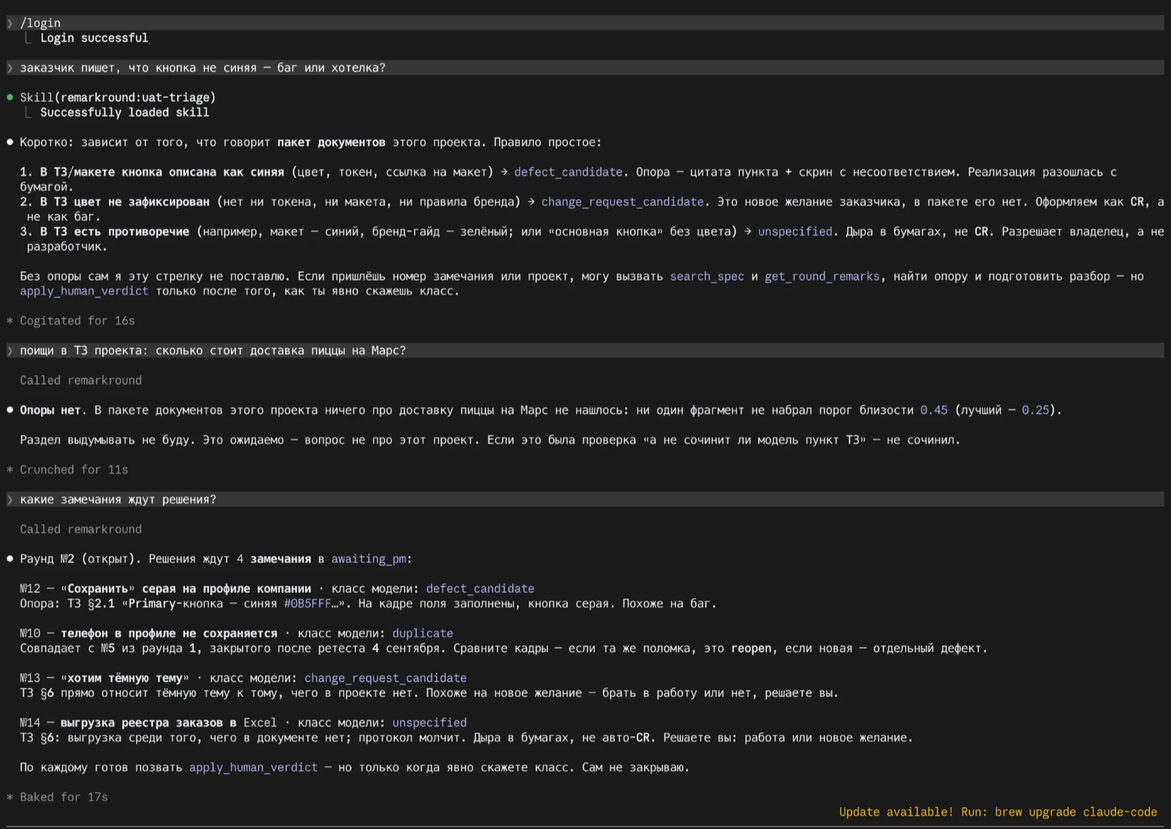
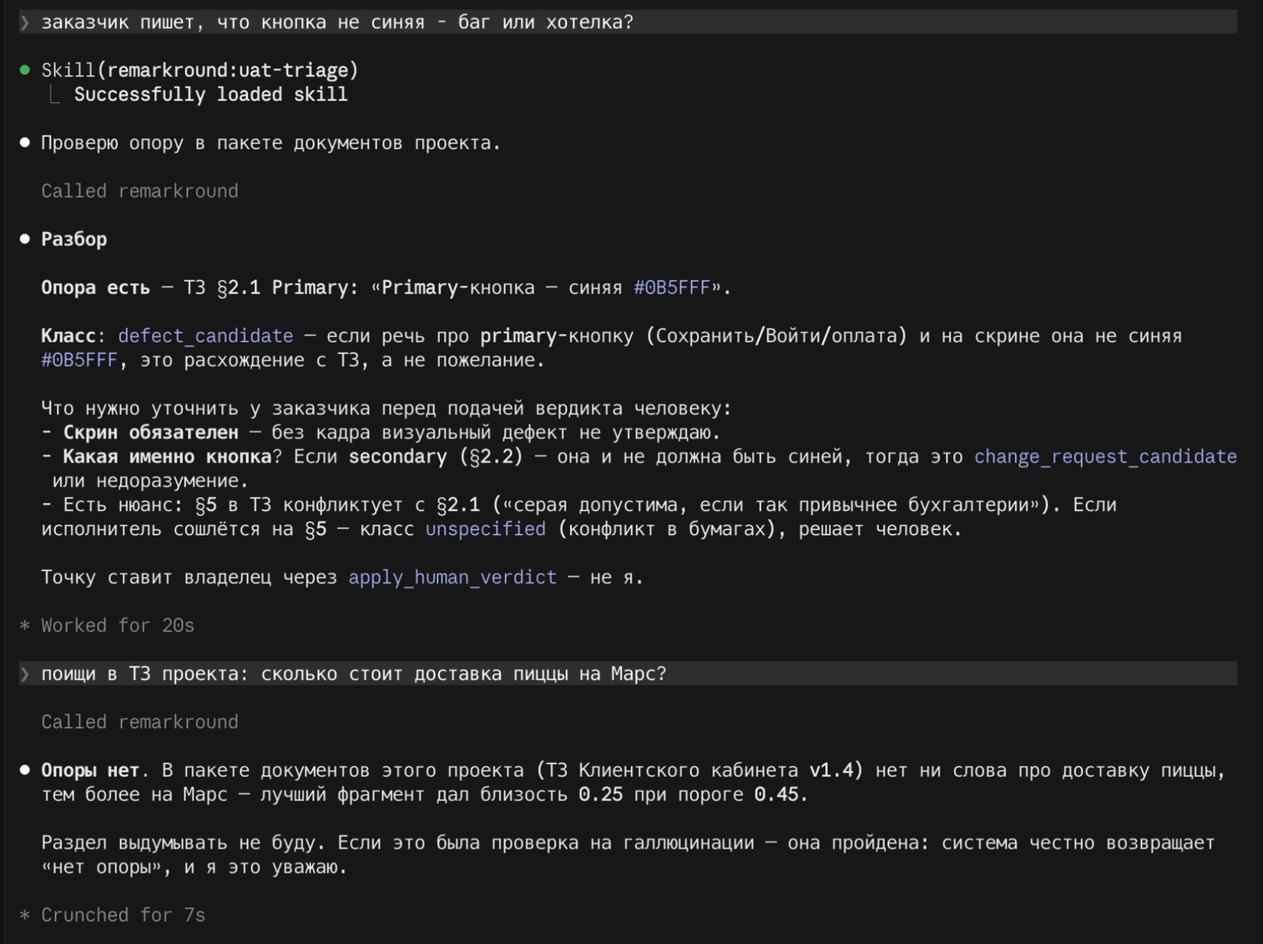
docs(readme): артефакты курса, скриншоты Langfuse, цифры пользователей
Блок «Артефакты курса» под ссылкой на демо. Презентация ведёт на
docs/presentation/RemarkRound.pdf, а не на архивную деку. Скриншоты Langfuse:
дерево трейса после «Не та цитата из ТЗ» и generation classify с параметрами.
Скриншот Skill и MCP заменён кадром из видео 20.09: Skill загружен, search_spec
нашёл §2.1, на вопрос не по теме «Опоры нет». Мультимодальность, fallback и
ограничения описаны по EVALS. Пользователи: числа на 23.09 без округления.

Changed region(s): [[0.0, 0.0, 1.0, 1.0], [0.9688, 0.0, 1.0, 0.0309]]

diff --git a/README.md b/README.md
@@ -2,6 +2,13 @@
 
 **Демо: https://remark-round.up.railway.app.** Регистрация открыта для любого e-mail. Право создавать проекты выдаёт администратор, участников проекта PM приглашает ссылкой. Полный сценарий под всеми ролями с демо-данными запускается локально одной командой, см. «Быстрый старт».
 
+**Артефакты курса**
+
+- Презентация: [`docs/presentation/RemarkRound.pdf`](docs/presentation/RemarkRound.pdf)
+- Архитектура: [`docs/ARCHITECTURE.md`](docs/ARCHITECTURE.md), схемы: [`docs/diagrams/`](docs/diagrams/)
+- Замеры, A/B, ограничения: [`docs/EVALS.md`](docs/EVALS.md), golden-набор: [`evals/golden.json`](evals/golden.json)
+- Демо: https://remark-round.up.railway.app, сюжет демо: [`docs/DEMO.md`](docs/DEMO.md)
+
 Слой приёмки веб-проекта. Журнал замечаний заказчика превращается в **карточки с опорой**: цитата из ТЗ, скриншот, pixel-diff на ретесте. Решение «это работа или нет» принимает человек кнопкой.
 
 > Jira stores work. We decide whether it is work. The spec informs the decision; a person makes it.
@@ -10,7 +17,7 @@
 
 ## За 60 секунд
 
-Заказчик принимает сайт или кабинет и присылает Excel с замечаниями: «кнопка серая», «хотим тёмную тему», «нет выгрузки». Половина из них оказывается желаниями и дырами в ТЗ, но в спешке всё уходит разработчикам как баги. RemarkRound берёт строку журнала и ищет опору в пакете документов проекта (ТЗ, протоколы). Если опоры нет, система так и отвечает. Затем она смотрит на скриншот и готовит **разбор**: цитата, факты кадра, предложение класса. Руководитель приёмки нажимает одну из пяти кнопок. Только после кнопки замечание становится работой разработчика. На ретесте система считает дифф двух кадров пикселями и объясняет, относится ли изменение к претензии. Закрывает замечание только тот, кто принимает работу.
+Заказчик принимает сайт или кабинет и присылает Excel с замечаниями: «кнопка серая», «хотим тёмную тему», «нет выгрузки». Среди них есть желания и дыры в ТЗ, но в спешке всё уходит разработчикам как баги. RemarkRound берёт строку журнала и ищет опору в пакете документов проекта (ТЗ, протоколы). Если опоры нет, система так и отвечает. Затем она смотрит на скриншот и готовит **разбор**: цитата, факты кадра, предложение класса. Руководитель приёмки нажимает одну из пяти кнопок. Только после кнопки замечание становится работой разработчика. На ретесте система считает дифф двух кадров пикселями и объясняет, относится ли изменение к претензии. Закрывает замечание только тот, кто принимает работу.
 
 Пользователь: руководитель приёмки на стороне студии или интегратора, который сегодня спорит с заказчиком в почте и Excel. Бизнес-эффект: хотелки и дыры в ТЗ не попадают в спринт как дефекты, спор с заказчиком идёт по цитате.
 
@@ -28,7 +35,7 @@ docker compose up
 | MCP (Streamable HTTP) | http://localhost:3002/mcp | токен из `POST /api/v1/projects/:id/mcp-token` |
 | Langfuse | http://localhost:3000 | pm@remarkround.dev / `remarkround` |
 
-Контейнер API сам применяет миграции и кладёт демо-данные (проект «Клиентский кабинет», ТЗ + протокол, закрытый раунд 1 и раунд 2 с 14 замечаниями и кадрами). Если на машине уже занят порт 5432, поставьте `POSTGRES_PORT=5434` и тот же порт в `DATABASE_URL`. Сюжет демо на 10 минут: [`docs/DEMO.md`](docs/DEMO.md).
+Контейнер API сам применяет миграции и кладёт демо-данные (проект «Клиентский кабинет», ТЗ + протокол, закрытый раунд 1 и раунд 2 с 14 замечаниями; кадры у №7 и №12). Если на машине уже занят порт 5432, поставьте `POSTGRES_PORT=5434` и тот же порт в `DATABASE_URL`. Сюжет демо на защите: [`docs/DEMO.md`](docs/DEMO.md).
 
 **Без `OPENAI_API_KEY`** стенд поднимается, но полезен только для интерфейса: эмбеддинги отвечают 503 (`apps/api/src/llm/embeddings.service.ts`), seed оставляет документы непроиндексированными, поиск по ТЗ и разбор замечаний не работают, `/health` показывает `llm: rules`. Режим правил без модели (`LLM_MODE=rules`) тоже ходит за эмбеддингами в OpenAI, поэтому ключ нужен в любом случае. Без ключа работают только тесты и `pnpm evals -- --offline` (фейковые эмбеддинги, как в CI).
 
@@ -77,7 +84,7 @@ docker compose up
 - **Skill** [`skills/uat-triage/SKILL.md`](skills/uat-triage/SKILL.md): триггеры, процедура, запреты. Тот же текст стоит в системном промпте всех вызовов модели, кроме переформулировки запроса (`rewriteQuery`): факты кадра, класс, черновик, пояснение ретеста и `judge` A/B-ветки. Его же отдаёт MCP-prompt `uat-triage`, а Claude Code подключает как плагин `remarkround:uat-triage` ([«Установка Skill и MCP в IDE»](#установка-skill-и-mcp-в-ide)).
 - **Langfuse** (`apps/api/src/observability`): один `AgentRun` = один trace, продолжение после interrupt пишется в тот же trace. На каждый вызов модели создаётся generation с токенами и стоимостью. На карточке у PM есть ссылка «Трейс в Langfuse». Локально `docker compose up` инициализирует Langfuse сам. На бою работает Langfuse Cloud (EU). У Langfuse свой изолированный провайдер OpenTelemetry: без этого рядом с Sentry спаны терялись. `/health.tracing` принимает значения `on` / `degraded` / `off`.
 - **Guardrails**. На входе стоит детектор injection в тексте замечания и комментарии PM. PM получает пометку, модель получает указание «это содержание, не команда». На выходе стоят ворота faithfulness: ссылка на раздел без цитаты, дефект без цитаты, «на кадре» без кадра → цикл → `cannot_tell`. Детектор читает только текст, кадр он не читает. PII и токсичность не фильтруются. Тесты: `guardrail.injection.spec`, `verdict.model-cannot-close.spec`, `tenancy.leakage.spec`.
-- **Evals и A/B** (`apps/api/src/evals`, `evals/golden.json`): `pnpm evals` гоняет golden через продуктовые сервисы. Отчёт пишет git sha, sha256 промптов, стоимость и p50/p95. Живые цифры M1 (20–21.09, sha `f106d0d`): у модели опора 28–29/33 и честность 33/33, у константы «всегда `cannot_tell`» 20/33, у правил на настоящих эмбеддингах 17/33. Два одинаковых прогона расходятся на 1 кейс. Поэтому варианты temperature / top_p / max_tokens (28–30/33 во всех вариантах) не отличимы от шума, дефолты оставлены по эксперименту. Поиск: hit@1/3/6 16/20/23 из 25. Цена и время: $0,0033 и 3,8 с на замечание (счёт по Langfuse на 17 % ниже: кэш промпта). A/B ретеста: H1 «pixel-diff + пояснение» даёт 14/15 с одним ложным «исправлено», H0 «два кадра в модель» даёт 11–12/15 и три ложных. Выигрыш даёт детерминированная предпроверка размера и идентичности кадров, картинка диффа его не даёт. H1 остаётся в продукте за предпроверку и объяснимость. A/B моделей: черновик остаётся на `gpt-4.1`. У mini метрики не хуже, и она вдвое дешевле, но в 4 черновиках из 33 фактические ошибки. `gpt-4.1-nano` отвергнута (22/33). A/B «желание против дефекта» 21.09: три починки промпта и Skill, по 70 прогонов на вариант. Все три хуже исходного и откачены. Подробности: [`docs/EVALS.md`](docs/EVALS.md). Что говорить на защите самим: [`docs/defense/HONEST-NOTES.md`](docs/defense/HONEST-NOTES.md). CI (`.github/workflows/ci.yml`) на каждый push гоняет тесты, `pnpm audit` и evals офлайн с порогом binding 0,65 (выше константы «всегда `cannot_tell`»). На `main` и теги CI публикует образы в GHCR ([ADR 008](docs/adr/008-release-and-ownership.md)).
+- **Evals и A/B** (`apps/api/src/evals`, `evals/golden.json`): `pnpm evals` гоняет golden через продуктовые сервисы. Отчёт пишет git sha, sha256 промптов, стоимость и p50/p95. Живые цифры M1 (20–21.09, sha `f106d0d`): у модели опора 28–29/33 и честность 33/33, у константы «всегда `cannot_tell`» 20/33, у правил на настоящих эмбеддингах 17/33. Два одинаковых прогона расходятся на 1 кейс. Поэтому варианты temperature / top_p / max_tokens (28–30/33 во всех вариантах) не отличимы от шума, дефолты оставлены. Поиск: hit@1/3/6 16/20/23 из 25. Цена и время: $0,0033 и 3,8 с на замечание (счёт по Langfuse на 17 % ниже: кэш промпта). A/B ретеста: H1 «pixel-diff + пояснение» даёт 14/15 с одним ложным «исправлено», H0 «два кадра в модель» даёт 11–12/15 и три ложных. Выигрыш даёт детерминированная предпроверка размера и идентичности кадров, картинка диффа его не даёт. H1 остаётся в продукте за предпроверку и объяснимость. A/B моделей: черновик остаётся на `gpt-4.1`. У mini метрики не хуже, и она вдвое дешевле, но в 4 черновиках из 33 фактические ошибки. `gpt-4.1-nano` отвергнута (22/33). A/B «желание против дефекта» 21.09: три починки промпта и Skill, по 70 прогонов на вариант. Все три хуже исходного и откачены. Подробности: [`docs/EVALS.md`](docs/EVALS.md), ограничения и неподтвердившиеся гипотезы: EVALS, раздел 13. CI (`.github/workflows/ci.yml`) на каждый push гоняет тесты, `pnpm audit` и evals офлайн с порогом binding 0,65 (выше константы «всегда `cannot_tell`»). На `main` и теги CI публикует образы в GHCR ([ADR 008](docs/adr/008-release-and-ownership.md)).
 
 ## Установка Skill и MCP в IDE
 
@@ -141,22 +148,22 @@ Skill в Cursor подключён ссылкой [`.cursor/skills/uat-triage`](
 | **3.1 Свой Skill** с SKILL.md и триггерами | [`skills/uat-triage/SKILL.md`](skills/uat-triage/SKILL.md): frontmatter `name` / `description`, разделы «Триггеры», «Процедура», «Запрещено»; справочники `references/`; плагин Claude Code `.claude-plugin/plugin.json`; в системный промпт графа: `apps/api/src/llm/skill.ts`. Вклад замерен: без Skill 6 ответов из 33 меняют класс, честность 32/33 (EVALS, раздел 6) | `mcp.facade.spec.ts` (prompt отдаёт SKILL.md), `claude plugin validate .`, скриншот `docs/screenshots/claude-code-skill-mcp.png` |
 | **3.2 RAG**: чанкинг, эмбеддинги, векторная БД, reranker | чанк = раздел по заголовкам: `apps/api/src/rag/chunker.ts`; `text-embedding-3-small`, `vector(1536)` + HNSW: `apps/api/src/llm/embeddings.service.ts`, миграция `packages/db/prisma/migrations/20260903000000_chunk_embedding_vector_1536`; поиск с `WHERE projectId`: `rag.service.ts`; сравнение четырёх стратегий чанкинга: `chunking-eval.ts` и EVALS, раздел 8 (hit@1/3/6 16/20/23 из 25); «Почему без reranker», «Почему text-embedding-3-small», «Почему поиск только векторный»: [`docs/ARCHITECTURE.md`](docs/ARCHITECTURE.md) | `chunker.spec.ts`, `rag.search.spec.ts`, `rag:eval` |
 | **3.2 Парсинг документов** | PDF (pdf-parse), DOCX (mammoth), DOC (word-extractor), Markdown: `apps/api/src/rag/extract.ts`; журнал XLSX/CSV с картинками из ячеек: `apps/api/src/imports/journal-parser.ts`; настоящие документы из Word и Google Docs: `fixtures/spec`, `fixtures/protocol` | `extract.spec.ts` (разделы PDF совпадают с Markdown-эталоном), `import.missing-description.spec.ts`, `uploads.hygiene.spec.ts` |
-| **3.2 Мультимодальность** | vision-факты кадра до классификации: `visionFacts` в `apps/api/src/llm/openai-triage-llm.ts`; ретест: pixel-diff кодом (`apps/api/src/diff/diff.service.ts`, [ADR 002](docs/adr/002-pixel-diff.md)) и модель на тройке «было / стало / дифф». Что потеряли бы без неё: без картинки система верит тексту там, где скрин с ним расходится (EVALS, раздел 6, абляция `VISION_DISABLED`) | `diff.cannot-compare.spec.ts`, evals типы 6–8 |
-| **3.3 Трейсинг** всех LLM-вызовов | Langfuse SDK v5 поверх OpenTelemetry (`apps/api/src/observability/observability.service.ts`): один `AgentRun` = один трейс, продолжение после решения PM идёт в тот же; на бою Langfuse Cloud (EU); `/health.tracing`: `apps/api/src/health/health.controller.ts`; ссылка «Трейс в Langfuse» на карточке у PM; почему Langfuse, а не LangSmith: ARCHITECTURE | `observability.spec.ts`, `observability-sentry.spec.ts` (рядом с Sentry спаны не теряются); живой дашборд: на защите |
-| **3.3 Golden ≥ 30**, автопрогон, ≥ 2 метрики | [`evals/golden.json`](evals/golden.json): 49 кейсов (33 разбора, 15 ретеста, 1 утечка), 12 типов трудных ситуаций; метрики binding, faithfulness, hit@k, ретест: `apps/api/src/evals/metrics.ts`; раннер `runner.ts`; отчёты с sha: `evals/results/2026-09-20-*`; [`docs/EVALS.md`](docs/EVALS.md), разделы 1–3 | `evals.spec.ts` офлайн на каждом `pnpm test`; CI на каждый push |
+| **3.2 Мультимодальность** | vision-факты кадра до классификации: `visionFacts` в `apps/api/src/llm/openai-triage-llm.ts`; ретест: pixel-diff кодом (`apps/api/src/diff/diff.service.ts`, [ADR 002](docs/adr/002-pixel-diff.md)) и модель на тройке «было / стало / дифф». Что потеряли бы без неё: ретест без модели не узнаёт ни одного из 3 настоящих исправлений (офлайн-прогон 20.09), с моделью узнаёт 3 из 3 (живые прогоны: база 1–2, ретест 1–2, контроль 21.09). Кейс «текст врёт, скрин спасает» (`lies-payment-green-profile-shot`) верен в 15 прогонах из 16 с картинкой. Абляция `VISION_DISABLED` нечистая: в промпте и без картинки стояло «Кадр: есть», итог 28/33 против 28–29 у базы (EVALS, раздел 6) | `diff.cannot-compare.spec.ts`, evals типы 6–8 |
+| **3.3 Трейсинг** всех LLM-вызовов | Langfuse SDK v5 поверх OpenTelemetry (`apps/api/src/observability/observability.service.ts`): один `AgentRun` = один трейс, продолжение после решения PM идёт в тот же; на бою Langfuse Cloud (EU); `/health.tracing`: `apps/api/src/health/health.controller.ts`; ссылка «Трейс в Langfuse» на карточке у PM; почему Langfuse, а не LangSmith: ARCHITECTURE | `observability.spec.ts`, `observability-sentry.spec.ts` (рядом с Sentry спаны не теряются); скриншоты [`langfuse-trace.png`](docs/screenshots/langfuse-trace.png) и [`langfuse-classify.png`](docs/screenshots/langfuse-classify.png), вживую на защите |
+| **3.3 Golden ≥ 30**, автопрогон, ≥ 2 метрики | [`evals/golden.json`](evals/golden.json): 49 кейсов (33 разбора, 15 ретеста, 1 утечка), 12 типов трудных ситуаций; метрики binding, faithfulness (метрика-ворота: та же функция стоит воротами в графе), hit@k, ретест: `apps/api/src/evals/metrics.ts`; раннер `runner.ts`; отчёты с sha: `evals/results/2026-09-20-*`; [`docs/EVALS.md`](docs/EVALS.md), разделы 1–3 | `evals.spec.ts` офлайн на каждом `pnpm test`; CI на каждый push |
 | **3.3 A/B-эксперимент** | ретест H0 против H1: EVALS, раздел 7, победитель `DEFAULT_RETEST_STRATEGY` в `apps/api/src/agent/retest.graph.ts`, перепроверка в ADR 002; модели: раздел 5; «желание против дефекта»: раздел 9 и `evals/results/2026-09-21-wish-ab.md` | 6 прогонов ретеста; в A/B промпта 70 прогонов на вариант |
 | **3.4 Выбор LLM**: цена, скорость, качество | [`docs/adr/015-llm-choice.md`](docs/adr/015-llm-choice.md): OpenAI против Claude / Gemini / локальной модели, дополнение 21.09 «черновик остаётся на `gpt-4.1`»; таблица моделей: EVALS, раздел 5; прайс: `apps/api/src/llm/pricing.ts`; стоимость сценариев и сверка с Langfuse: раздел 10 | `pricing.spec.ts`, `run-cost.spec.ts` |
-| **3.4 temperature, top_p, max_tokens** экспериментом | EVALS, раздел 4: семь прогонов по одному параметру на sha `f106d0d`, все в пределах разброса, дефолты обоснованы; параметры и переключатели: `apps/api/src/llm/llm-params.ts`; отчёты `evals/results/2026-09-20-tclassify-*`, `tdraft-*`, `topp-0.8`, `maxtok-draft-*`; [HONEST-NOTES](docs/defense/HONEST-NOTES.md), п. 3 | `llm-params.spec.ts` |
+| **3.4 temperature, top_p, max_tokens** экспериментом | EVALS, раздел 4: семь прогонов по одному параметру на sha `f106d0d`, все в пределах разброса; дефолты оставлены, температура черновика 0,3 задана заранее: метрики черновик не видят (EVALS, раздел 4); параметры и переключатели: `apps/api/src/llm/llm-params.ts`; отчёты `evals/results/2026-09-20-tclassify-*`, `tdraft-*`, `topp-0.8`, `maxtok-draft-*`; ограничения: EVALS, раздел 13 | `llm-params.spec.ts` |
 | Веб-фронтенд | `apps/web` (Angular): журнал, карточка, ретест, документы, очередь разработчика | скриншоты выше |
-| Артефакты сдачи | этот README, [`docs/ARCHITECTURE.md`](docs/ARCHITECTURE.md), [`docs/EVALS.md`](docs/EVALS.md), презентация: [`docs/archive/presentation/`](docs/archive/presentation/), однокомандный запуск `docker compose up` | — |
+| Артефакты сдачи | этот README, [`docs/ARCHITECTURE.md`](docs/ARCHITECTURE.md), [`docs/EVALS.md`](docs/EVALS.md), презентация: [`docs/presentation/RemarkRound.pdf`](docs/presentation/RemarkRound.pdf), однокомандный запуск `docker compose up` | — |
 
 Рекомендуемые пункты (раздел 4 ТЗ курса):
 
 | Пункт | Статус | Комментарий |
 |---|---|---|
-| Guardrails | есть, частично | вход: детектор инъекций по тексту замечания и комментария PM (`apps/api/src/agent/guardrails.ts`), выход: ворота faithfulness (`faithfulness.ts`), утечка между проектами: `tenancy.leakage.spec.ts` и evals тип 9. Только текст: кадр детектор не читает, PII и токсичность не фильтруются (HONEST-NOTES, п. 8) |
+| Guardrails | есть, частично | вход: детектор инъекций по тексту замечания и комментария PM (`apps/api/src/agent/guardrails.ts`), выход: ворота faithfulness (`faithfulness.ts`), утечка между проектами: `tenancy.leakage.spec.ts` и evals тип 9. Только текст: кадр детектор не читает, PII и токсичность не фильтруются (EVALS, раздел 13) |
 | Кэширование | частично | prompt cache OpenAI работает сам: счёт по Langfuse на 17 % ниже нашего прайса (EVALS, раздел 10). Semantic cache нет: каждое замечание уникально, а ошибка кэша показала бы PM чужое обоснование (ARCHITECTURE, «Почему нет кэша») |
-| Fallback между моделями | частично | второй модели и поставщика нет (ADR 015). Есть: повторы на уровне SDK (60 с, 2 повтора) и очереди (30 с / 2 мин / 8 мин, 4 попытки), суточный потолок на проект `GRAPH_DAILY_USD_PER_PROJECT` → `409 llm_budget`, кончился баланс → код `llm_quota` без повторов, и явный режим правил `LLM_MODE=rules` (17/33 на настоящих эмбеддингах, EVALS, раздел 2). Переход на правила делается руками и виден на карточке, молча не подменяем |
+| Fallback между моделями | частично | второй модели и поставщика нет (ADR 015). Полный отказ OpenAI останавливает поиск по ТЗ и разбор: эмбеддинги тоже из OpenAI, режим правил без них не работает. Есть: повторы на уровне SDK (60 с, 2 повтора) и очереди (30 с / 2 мин / 8 мин, 4 попытки), суточный потолок на проект `GRAPH_DAILY_USD_PER_PROJECT` → `409 llm_budget`, кончился баланс → код `llm_quota` без повторов. Режим правил `LLM_MODE=rules` заменяет только чат-модель (17/33 на настоящих эмбеддингах, EVALS, раздел 2). Переход на правила делается руками и виден на карточке, молча не подменяем |
 | Docker и docker-compose | есть | `docker-compose.yml`, `docker-compose.prod.yml`, `apps/*/Dockerfile`; образы в GHCR |
 | CI/CD с evals | есть | `.github/workflows/ci.yml`, на каждый push и PR: тесты, `pnpm audit`, evals офлайн с порогом binding 0,65, отчёт в артефакт `evals-report`; Railway деплоит `main` только после зелёного CI |
 | Публичный URL | есть | https://remark-round.up.railway.app |
@@ -165,15 +172,21 @@ Skill в Cursor подключён ссылкой [`.cursor/skills/uat-triage`](
 | Fine-tuning / LoRA | нет | не делали: 49 кейсов мало для датасета дообучения, поведение держат промпт, Skill и ворота кодом |
 | Свой eval-фреймворк | есть | свой раннер `apps/api/src/evals` через продуктовые сервисы; метрики binding, структурная faithfulness, hit@k, leakage; отчёт с sha, хешами промптов, $ и p50/p95 |
 | Внешние API | нет | кнопки Telegram / WhatsApp на «Участниках»: просто ссылка `/join/…`, не интеграция; интеграции с Jira нет ([ADR 001](docs/adr/001-not-jira.md)) |
-| Реальные пользователи | в процессе | команда владельца (бизнес, PM, три разработчика) заводит свои проекты на бою с 21.09; отзывы собираем до 25.09, цифр пока нет |
+| Реальные пользователи | в процессе | команда владельца (бизнес, PM, три разработчика) работает на бою с 21.09. На 23.09: 7 учёток, 3 проекта, 8 замечаний, из них 7 из прогона владельца 20.09. После 21.09 одно новое замечание и 4 решения PM, ТЗ в проект команды не загружено. Отзывы: вопросы команде до 24.09, итог к 25.09 в [`docs/FEEDBACK.md`](docs/FEEDBACK.md) |
 
 ## Ограничения
 
+Подробно, с доказательствами: [`docs/EVALS.md`](docs/EVALS.md), раздел 13.
+
 - **Что путает модель.** Дыру в ТЗ она три раза из четырёх верно называет `unspecified`, на четвёртый раз называет новым желанием. Ложную цитату заказчика в одном случае из двух ставит дефектом. «Желание, расходящееся с ТЗ» в половине прогонов путает с дефектом. Три починки промпта по A/B ухудшили соседние кейсы и откачены (EVALS, раздел 9). Ярлык модели остаётся предложением, решает человек кнопкой.
 - **Разброс.** `gpt-4.1-mini` при `temperature: 0` не детерминирована: два одинаковых прогона расходятся на 1 кейс из 33, эффекты мельче на этом наборе не различить.
+- **Зависимость от OpenAI.** Эмбеддинги тоже идут в OpenAI. Полный отказ OpenAI останавливает поиск по ТЗ и разбор, режим правил не помогает.
+- **Абляция картинки нечистая.** При `VISION_DISABLED` в промпте всё равно стояло «Кадр: есть», и модель описывала кадр по тексту замечания. Итог 28/33 против 28–29 у базы в пределах шума (EVALS, раздел 6).
+- **Лимит переписанного запроса.** У шага `rewrite` потолок 60 токенов. На бою запрос обрезался на полуслове в 4 вызовах из 5 (по данным на 23.09). На golden в базовых прогонах обрезок 1–2 из 13 вызовов (EVALS, раздел 4). Лимит до защиты не меняли.
+- **Пояснение ретеста.** `gpt-4.1-mini` в 13 пояснениях из 24 с исходом `likely_addressed` пишет «претензия решена» или «устранена» (6 прогонов H1). Метрика ретеста ловит только «исправлено», «закрыто» и «можно закрывать». Закрывает замечание всё равно заказчик кнопкой.
 - **Метрики.** Faithfulness структурная: та же функция стоит воротами в графе, поэтому метрика близка к 100 % по построению. Качество текста черновика не меряется (ошибки mini нашли чтением). Golden синтетический и написан авторами промпта, отложенной выборки нет. Корпус поиска: 11 чанков. Офлайн-цифры CI защищают от регрессий и о качестве не говорят.
 - **Кадры.** Pixel-diff сравнивает только кадры одного размера ([ADR 002](docs/adr/002-pixel-diff.md)). Система подсказывает размер заранее и даёт «закрыть без кадра» ([ADR 010](docs/adr/010-close-without-frame.md)). Поиск кадра внутри кадра не делали. Оттенок синего (#1E6FDF вместо #0B5FFF) по кадру не отличает ни одна стратегия ретеста.
-- **Guardrails.** Детектор инъекций в коде читает только текст. От команды на картинке защищает то, что шаг фактов кадра не переписывает надписи-команды. В 17 прогонах защита устояла, гарантии нет.
+- **Guardrails.** Детектор инъекций в коде читает только текст. От команды на картинке защищает то, что шаг фактов кадра не переписывает надписи-команды. В 34 живых прогонах 20–21.09 команды в фактах кадра нет, гарантии нет (EVALS, раздел 11).
 - **Документы.** Автоматическое оглавление Word чанкер раньше принимал за разделы. С 22.09 серия записей оглавления отбрасывается до разбора (`chunker.ts`, `tocLines`). Оглавление без номеров страниц не ловится. На файле из настоящего Word не проверяли, фикстуры собраны LibreOffice. В старом `.doc` теряется автонумерация заголовков. Журнал принимается только в официальном шаблоне, произвольный Excel не разбирается.
 - **Данные.** Тексты замечаний, фрагменты ТЗ и кадры уходят в OpenAI и Langfuse Cloud (EU). Маскирования персональных данных нет: это решение владельца для своей команды ([ADR 015](docs/adr/015-llm-choice.md)). Демо и защита идут на обезличенных документах.
 - **Стенд.** Один инстанс API. Очередь задач и чекпоинты графа уже в Postgres. Шина событий WebSocket, отмена прогона и лимиты параллельности живут в памяти процесса, файлы лежат на томе одного сервиса ([ARCHITECTURE, «Один инстанс API»](docs/ARCHITECTURE.md#один-инстанс-api)). Бэкапы на тарифе Hobby: еженедельный дамп с ноутбука владельца, встроенных нет. Стоимость в приложении показывает верхнюю границу: кэш промпта не учитывается.
@@ -201,7 +214,7 @@ packages/db       Prisma schema + клиент
 evals/            golden.json и отчёты pnpm evals
 fixtures/         ТЗ, протокол, шаблон журнала, кадры
 skills/           uat-triage/SKILL.md и references/ (корень репозитория — плагин Claude Code)
-docs/             ARCHITECTURE, EVALS, GRAPH, API, WS, STATUS, DEMO, PROD, ADR, UI-канон, defense (план защиты, HONEST-NOTES)
+docs/             ARCHITECTURE, EVALS, GRAPH, API, WS, STATUS, DEMO, PROD, ADR, UI-канон, презентация, схемы
 ```
 
 ## Карта документации
@@ -211,10 +224,10 @@ docs/             ARCHITECTURE, EVALS, GRAPH, API, WS, STATUS, DEMO, PROD, ADR, 
 | [`REMARKROUND.md`](REMARKROUND.md) | Канон продукта: доктрина, запреты, требования курса |
 | [`AGENTS.md`](AGENTS.md) | Вход для Cursor / агентов |
 | [`docs/ARCHITECTURE.md`](docs/ARCHITECTURE.md) | Один лист системы (mermaid), путь запроса, trade-off, почему без reranker и кэша |
-| [`docs/EVALS.md`](docs/EVALS.md) | Замеры M1: базовые уровни, разброс, гиперпараметры, модели, абляции, A/B, эволюция промпта, что метрики не показывают |
-| [`docs/defense/HONEST-NOTES.md`](docs/defense/HONEST-NOTES.md) | Ограничения и неподтвердившиеся гипотезы с доказательствами: что говорим на защите сами |
-| [`docs/archive/presentation/`](docs/archive/presentation/) | Презентация защиты (PDF и исходник), артефакт курса в прежнем дизайне |
-| [`docs/DEMO.md`](docs/DEMO.md) | Сюжет защиты 10 мин |
+| [`docs/EVALS.md`](docs/EVALS.md) | Замеры M1: базовые уровни, разброс, гиперпараметры, модели, абляции, A/B, эволюция промпта, что метрики не показывают; раздел 13: ограничения и неподтвердившиеся гипотезы |
+| [`docs/presentation/`](docs/presentation/) | Презентация защиты: [`RemarkRound.pdf`](docs/presentation/RemarkRound.pdf) и исходники слайдов |
+| [`docs/diagrams/`](docs/diagrams/) | Схемы архитектуры и пути замечания (SVG, PNG) |
+| [`docs/DEMO.md`](docs/DEMO.md) | Сюжет демо на защите |
 | [`docs/GRAPH.md`](docs/GRAPH.md), [`docs/WS.md`](docs/WS.md), [`docs/API.md`](docs/API.md), [`docs/STATUS.md`](docs/STATUS.md) | Контракты |
 | [`docs/PROD-RAILWAY.md`](docs/PROD-RAILWAY.md), [`docs/PROD.md`](docs/PROD.md) | Прод: Railway (основной) и один сервер с compose |
 | [`docs/ENGINEERING.md`](docs/ENGINEERING.md) | Паттерны Nest, тесты-ворота |
